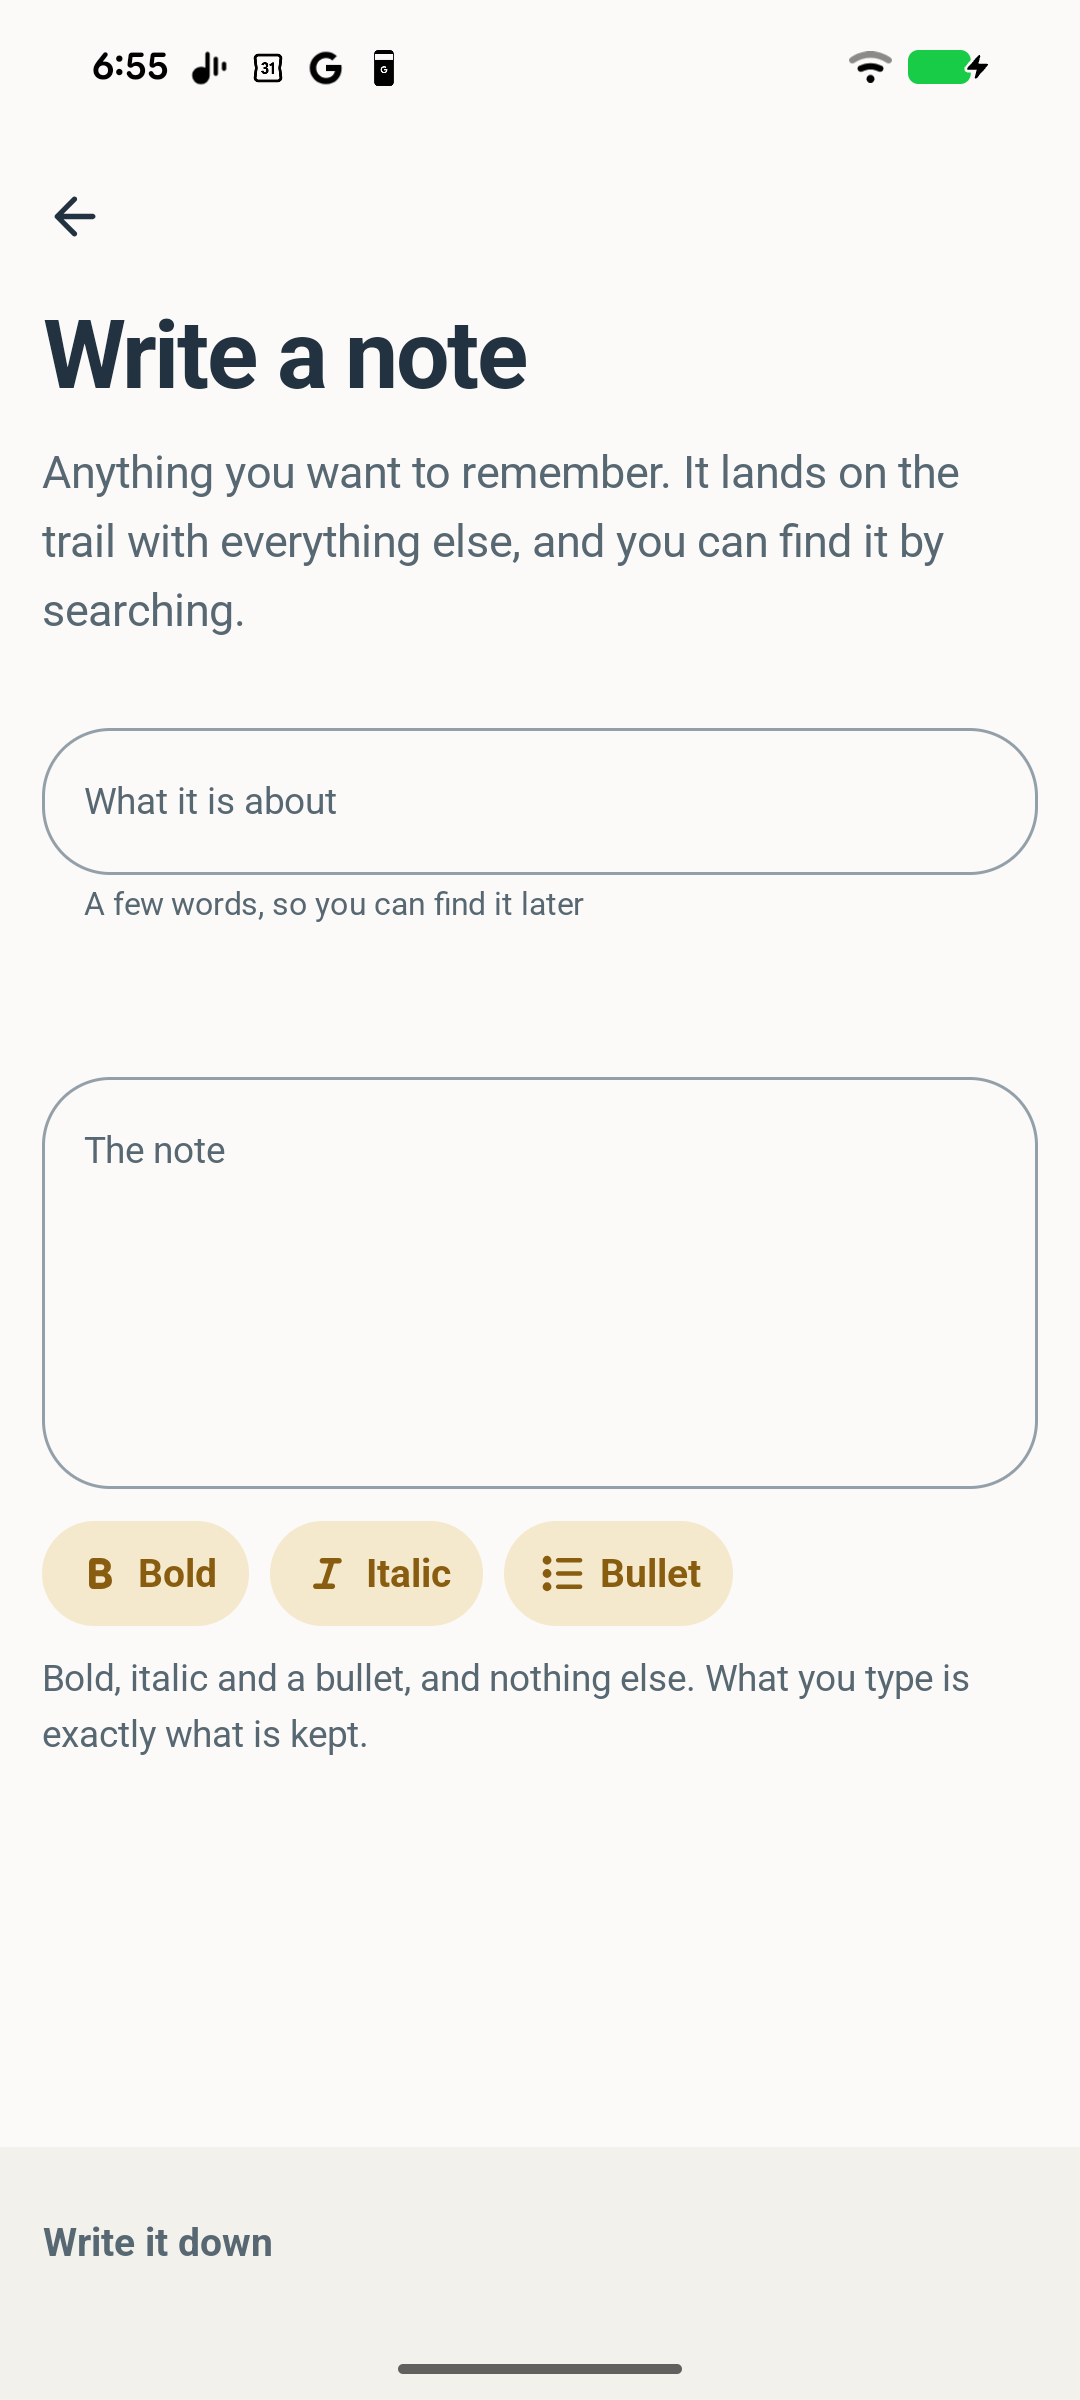
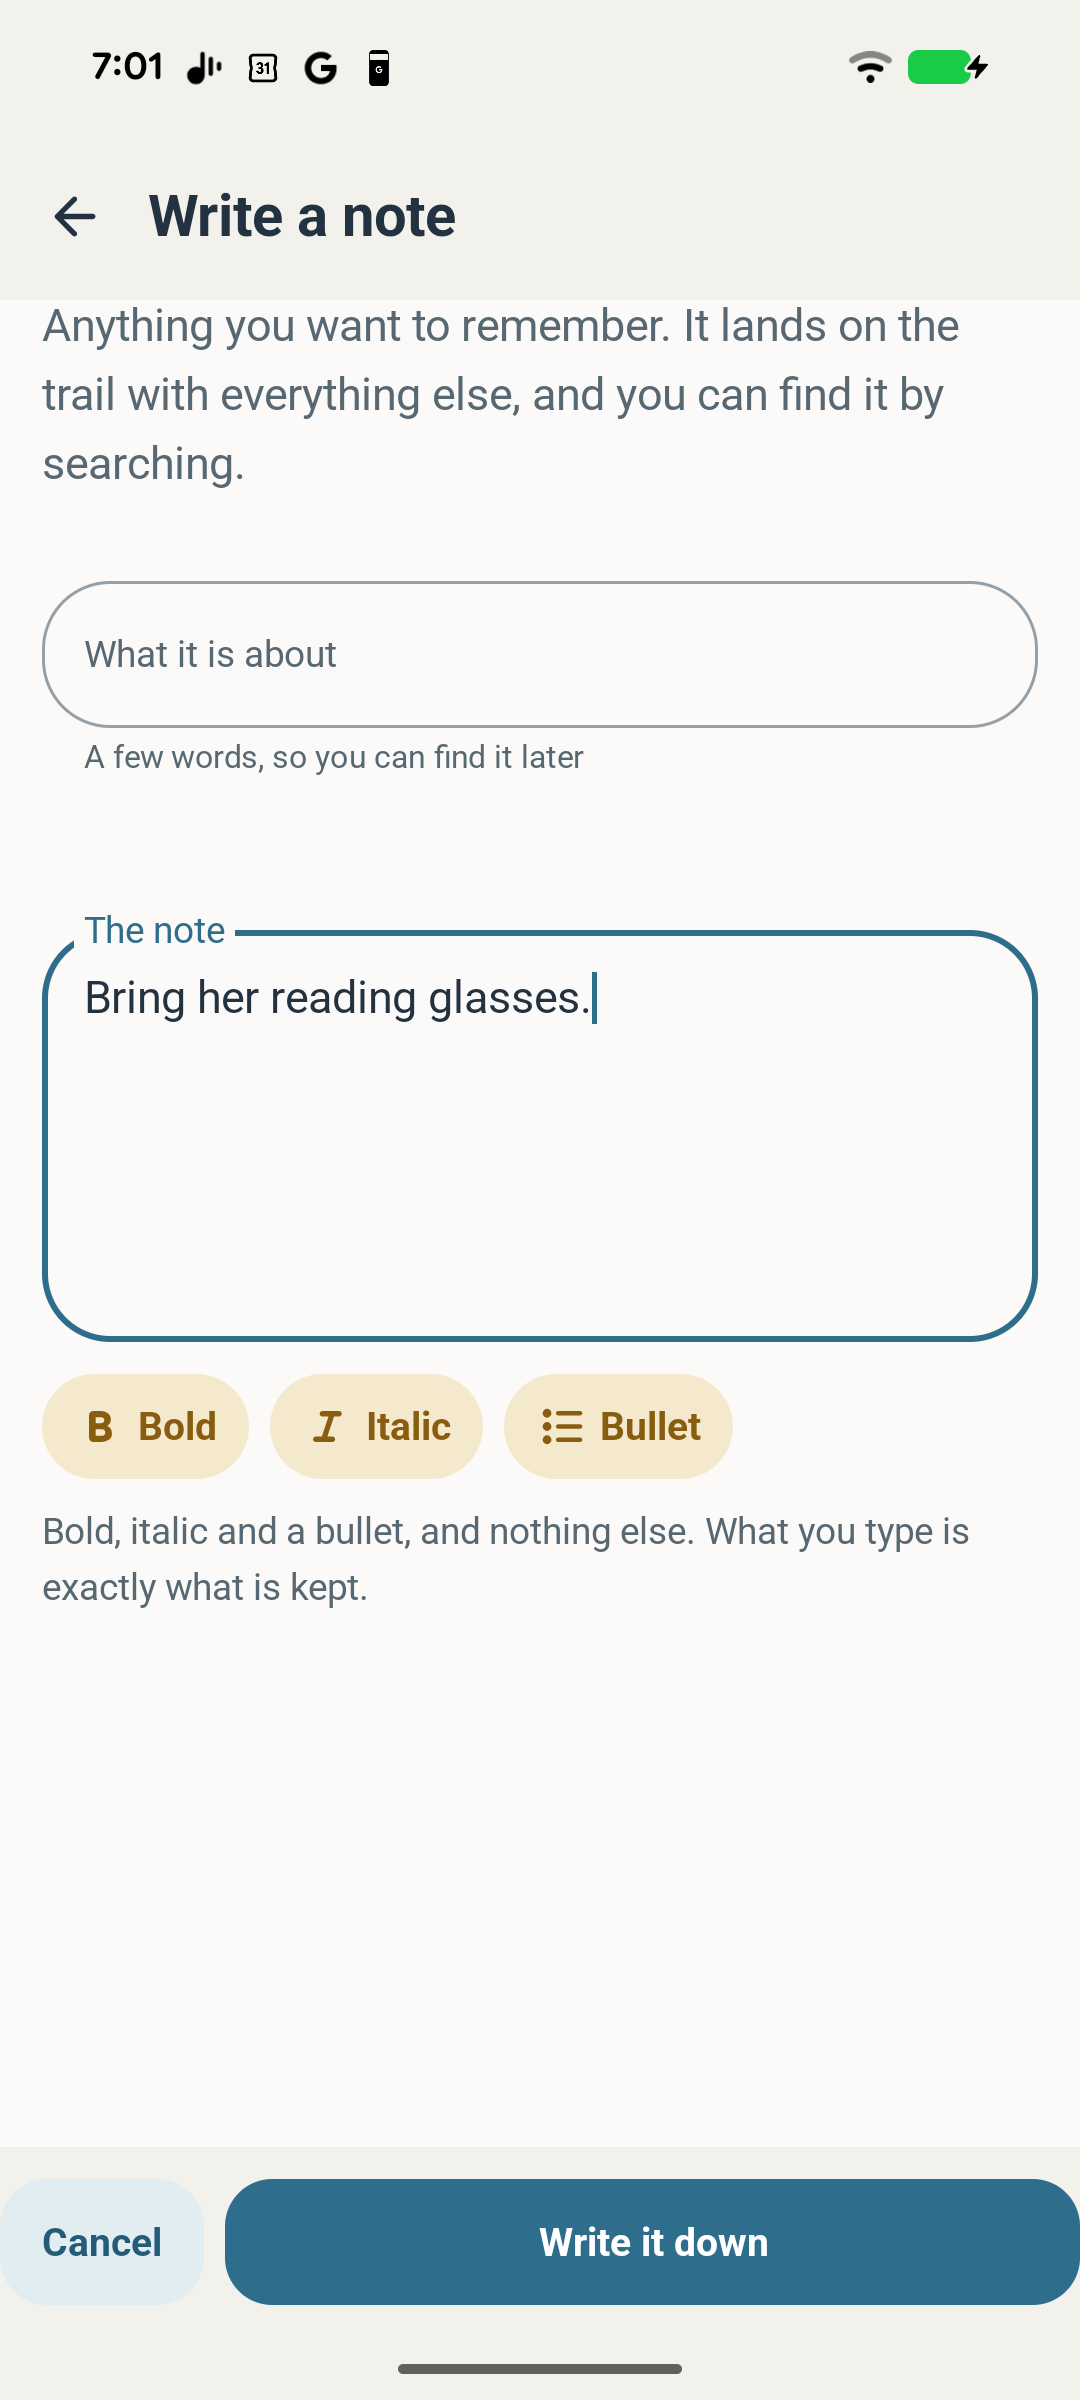
The note's band is a save and a cancel, not a link on the left
The owner: make that the save/cancel Material 3 Expressive style. It was one
quiet action sitting at the left of the band, which reads as a link rather than
as the thing the screen is for.

One filled action and one quiet one, which is the ActionEmphasis law: at most
one filled per group, because a band with two shouts has told the person nothing
about which one matters. Save takes the width, cancel keeps its presence without
competing, and cancel leaves by the same route the back arrow does.

Claude-Session: https://claude.ai/code/session_01EDVeq2bM3wBwGduzvLHqtA

diff --git a/android/app/src/main/kotlin/com/kamsiob/healthtrail/ui/screens/NoteScreen.kt b/android/app/src/main/kotlin/com/kamsiob/healthtrail/ui/screens/NoteScreen.kt
@@ -37,6 +37,8 @@ import com.kamsiob.healthtrail.i18n.LocalStrings
 import com.kamsiob.healthtrail.ui.theme.HealthTrail
 import com.kamsiob.healthtrail.ui.theme.Space
 import com.kamsiob.healthtrail.ui.v4.Action
+import com.kamsiob.healthtrail.ui.v4.ActionEmphasis
+import androidx.compose.ui.Alignment
 import com.kamsiob.healthtrail.ui.v4.Eyebrow
 import com.kamsiob.healthtrail.ui.v4.Page
 import com.kamsiob.healthtrail.ui.v4.RichText
@@ -54,6 +56,7 @@ object NoteTags {
     const val TITLE = "note_title"
     const val BODY = "note_body"
     const val SAVE = "note_save"
+    const val CANCEL = "note_cancel"
     const val ABOUT = "note_about"
     const val BOLD = "note_mark_bold"
     const val ITALIC = "note_mark_italic"
@@ -107,18 +110,43 @@ fun NoteScreen(
         subtitle = strings["note.lead"],
         // **The way out sits in the band**, where every other form's Save does,
         // so the keyboard never covers it. #129.
+        // **A save and a cancel, in that order of weight.** The owner,
+        // 2026-08-18: "make that the save/cancel material 3 expressive style."
+        // It was one quiet action sitting on the left of the band, which reads
+        // as a link rather than as the thing the screen is for.
+        //
+        // **One filled action and one quiet one**, `ActionEmphasis` law: at most
+        // one filled per group, because a band with two shouts has told the
+        // person nothing about which one matters. Save takes the width it
+        // deserves and cancel keeps its presence without competing.
         band = {
-            Action(
-                label = strings["note.save"],
-                // **A note with nothing in it is not a note.** This is the one
-                // thing on the screen that is required, and it is required
-                // because saving nothing writes an empty row rather than
-                // helping anybody. Rule 13 is about not blocking on *missing*
-                // fields, not about writing blank records.
-                enabled = body.isNotBlank() || title.isNotBlank(),
-                onClick = { onSave(title.trim(), body) },
-                modifier = Modifier.testTag(NoteTags.SAVE),
-            )
+            Row(
+                modifier = Modifier.fillMaxWidth(),
+                horizontalArrangement = Arrangement.spacedBy(Space.s),
+                verticalAlignment = Alignment.CenterVertically,
+            ) {
+                Action(
+                    label = strings["common.cancel"],
+                    emphasis = ActionEmphasis.Quiet,
+                    onClick = onBack,
+                    modifier = Modifier.testTag(NoteTags.CANCEL),
+                )
+                Action(
+                    label = strings["note.save"],
+                    emphasis = ActionEmphasis.Main,
+                    // **A note with nothing in it is not a note.** This is the
+                    // one thing on the screen that is required, and it is
+                    // required because saving nothing writes an empty row
+                    // rather than helping anybody. Rule 13 is about not
+                    // blocking on *missing* fields, not about writing blank
+                    // records.
+                    enabled = body.isNotBlank() || title.isNotBlank(),
+                    onClick = { onSave(title.trim(), body) },
+                    modifier = Modifier
+                        .weight(1f)
+                        .testTag(NoteTags.SAVE),
+                )
+            }
         },
     ) {
         aboutLabel?.let { about ->
